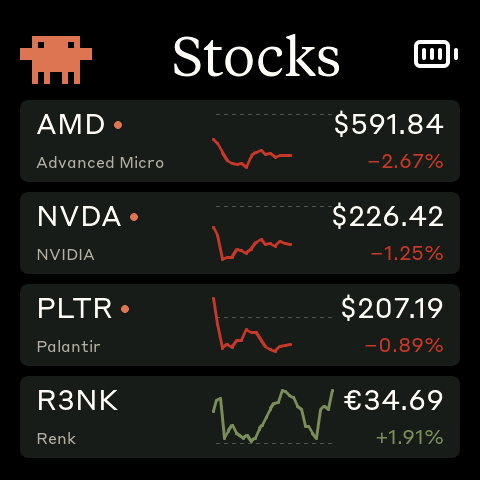
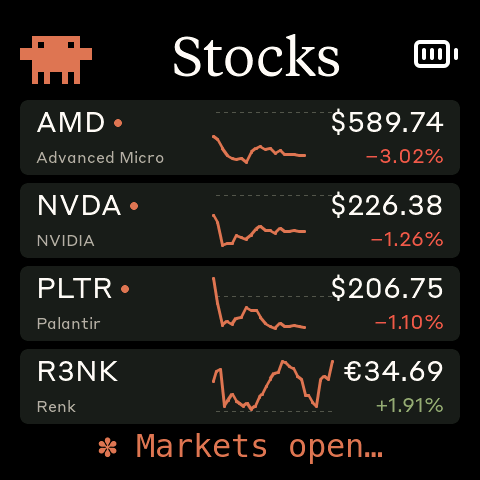
Weather/Stocks: terra-cotta ink and Usage's status line
Bring the two optional screens into the Usage screen's visual language:

- Terra-cotta (THEME_ACCENT) is the ink: every weather glyph (main and
  forecast), the degree sign after the big temperature, the stock
  sparklines, and the live-market dot. Text stays ivory / warm gray.
- Both screens get Usage's animated "<spinner> <text>..." status line, with
  one live fact each: the next sunrise/sunset (new "sun" field from
  extras.py) or whether any of the configured markets is open. The spinner
  step is shared via spinner_step(); content shifts up by footer_reserve.
- Gain/loss % keeps green/red but uses new THEME_GAIN / THEME_LOSS text
  tokens: the bar colours are 4.47:1 and 3.0:1 on the panel, the new ones
  6.3:1 and 4.8:1, and LOSS stays clearly redder than the orange sparkline.

Verified in the sim at 480x480, 368x448 and 240x240; C6 2.16 builds
(RAM 32%, flash 36%); daemon tests pass.

Changed region(s): [[0.0312, 0.2812, 0.9688, 0.9688], [0.6875, 0.2188, 0.9375, 0.2812], [0.0625, 0.2188, 0.25, 0.2812]]

diff --git a/firmware/src/ui.cpp b/firmware/src/ui.cpp
@@ -102,6 +102,7 @@ struct Layout {
     int16_t wx_detail_y;             // feels-like / high / low line
     int16_t wx_fc_y, wx_fc_h;        // forecast tiles
     int16_t wx_fc_icon_px;           // forecast icon (drawn from the 48px art)
+    int16_t wx_fc_pad_y;             // forecast tile top/bottom padding
     const lv_font_t* wx_temp_font;
     const lv_font_t* wx_cond_font;
     const lv_font_t* wx_detail_font;
@@ -117,6 +118,10 @@ struct Layout {
     const lv_font_t* st_name_font;
     const lv_font_t* st_price_font;
     const lv_font_t* st_chg_font;
+
+    // Weather / stocks share Usage's animated status line at the bottom;
+    // their content stops this far above the bottom edge to clear it.
+    int16_t footer_reserve;
 };
 static Layout L = {};
 
@@ -170,19 +175,20 @@ static void compute_layout(const BoardCaps& c) {
         L.bt_credit_1_font = &font_styrene_24;
         L.bt_credit_2_font = &font_styrene_20;
         L.wx_icon_px = 120;
-        L.wx_main_y = 96;
-        L.wx_cond_y = 226;
-        L.wx_detail_y = 264;
-        L.wx_fc_y = 312;
-        L.wx_fc_h = 130;
+        L.wx_main_y = 90;
+        L.wx_cond_y = 216;
+        L.wx_detail_y = 252;
+        L.wx_fc_y = 296;
+        L.wx_fc_h = 120;
         L.wx_fc_icon_px = 48;
+        L.wx_fc_pad_y = 8;
         L.wx_temp_font   = &font_styrene_temp_96;
         L.wx_cond_font   = &font_styrene_28;
         L.wx_detail_font = with_symbols(&font_styrene_24, &font_sym_24);
         L.wx_fc_font     = with_symbols(&font_styrene_24, &font_sym_24);
         L.st_row_h = 82;
-        L.st_row_gap = 10;
-        L.st_pad_y = 10;
+        L.st_row_gap = 8;
+        L.st_pad_y = 8;
         L.st_left_w = 140;
         L.st_spark_w = 120;
         L.st_line_w = 3;
@@ -211,6 +217,7 @@ static void compute_layout(const BoardCaps& c) {
         L.wx_fc_y = 262;
         L.wx_fc_h = 118;
         L.wx_fc_icon_px = 40;
+        L.wx_fc_pad_y = 8;
         L.wx_temp_font   = &font_styrene_temp_72;
         L.wx_cond_font   = &font_styrene_24;
         L.wx_detail_font = with_symbols(&font_styrene_20, &font_sym_20);
@@ -267,13 +274,14 @@ static void compute_layout(const BoardCaps& c) {
         L.bt_device_font   = &font_styrene_14;
         L.bt_credit_1_font = &font_styrene_12;
         L.bt_credit_2_font = &font_styrene_12;
-        L.wx_icon_px = 56;
-        L.wx_main_y = 40;
-        L.wx_cond_y = 100;
-        L.wx_detail_y = 118;
-        L.wx_fc_y = 140;
-        L.wx_fc_h = 92;
-        L.wx_fc_icon_px = 28;
+        L.wx_icon_px = 48;
+        L.wx_main_y = 38;
+        L.wx_cond_y = 88;
+        L.wx_detail_y = 105;
+        L.wx_fc_y = 124;
+        L.wx_fc_h = 80;
+        L.wx_fc_icon_px = 26;
+        L.wx_fc_pad_y = 5;
         L.wx_temp_font   = with_symbols(&font_styrene_48, &font_sym_48);
         L.wx_cond_font   = &font_styrene_14;
         L.wx_detail_font = with_symbols(&font_styrene_12, &font_sym_12);
@@ -291,6 +299,7 @@ static void compute_layout(const BoardCaps& c) {
     }
 
     L.content_w = L.scr_w - 2 * L.margin;
+    L.footer_reserve = -L.anim_y + lv_font_get_line_height(L.anim_font) + 6;
 }
 
 // Anthropic brand palette — design tokens live in theme.h
@@ -788,11 +797,23 @@ static const char* wx_text_for(int code) {
     }
 }
 
-// The art is white; the sun takes the brand accent, everything else stays ivory.
+// The art is white; every weather glyph is drawn in the brand terra-cotta,
+// the same ink as the Clawd mascot and the status line. Text stays ivory.
 static void set_wx_icon(lv_obj_t* img, const lv_image_dsc_t* dscs, int icon) {
     lv_image_set_src(img, &dscs[icon]);
-    lv_obj_set_style_image_recolor(img, icon == WX_SUN ? COL_ACCENT : COL_TEXT, 0);
+    lv_obj_set_style_image_recolor(img, COL_ACCENT, 0);
     lv_obj_set_style_image_recolor_opa(img, LV_OPA_COVER, 0);
+}
+
+// Status line at the bottom of the weather / stocks screens — same font,
+// colour and spinner as the Usage screen's, driven from ui_tick_anim().
+static lv_obj_t* make_footer(lv_obj_t* parent) {
+    lv_obj_t* f = lv_label_create(parent);
+    lv_label_set_text(f, "");
+    lv_obj_set_style_text_font(f, L.anim_font, 0);
+    lv_obj_set_style_text_color(f, COL_ACCENT, 0);
+    lv_obj_align(f, LV_ALIGN_BOTTOM_MID, 0, L.anim_y);
+    return f;
 }
 
 // Show an icon at `px`, scaling the art when the layout asks for another size.
@@ -816,6 +837,8 @@ static lv_obj_t* wx_tiles[WX_FORECAST_DAYS];
 static lv_obj_t* wx_tile_day[WX_FORECAST_DAYS];
 static lv_obj_t* wx_tile_icon[WX_FORECAST_DAYS];
 static lv_obj_t* wx_tile_temp[WX_FORECAST_DAYS];
+static lv_obj_t* wx_footer;
+static char      wx_footer_text[16];
 static bool      weather_received = false;
 static uint32_t  weather_ms = 0;
 
@@ -838,6 +861,7 @@ static void init_weather_screen(lv_obj_t* scr) {
 
     wx_icon = make_wx_icon(row, wx_big_dscs, ICON_WX_SUN_120_W, L.wx_icon_px);
     wx_temp = lv_label_create(row);
+    lv_label_set_recolor(wx_temp, true);   // the degree sign takes the accent
     lv_label_set_text(wx_temp, "-");
     lv_obj_set_style_text_font(wx_temp, L.wx_temp_font, 0);
     lv_obj_set_style_text_color(wx_temp, COL_TEXT, 0);
@@ -860,6 +884,8 @@ static void init_weather_screen(lv_obj_t* scr) {
     for (int i = 0; i < WX_FORECAST_DAYS; i++) {
         lv_obj_t* tile = make_panel(weather_container, L.margin + i * (tile_w + gap),
                                     L.wx_fc_y, tile_w, L.wx_fc_h);
+        lv_obj_set_style_pad_top(tile, L.wx_fc_pad_y, 0);
+        lv_obj_set_style_pad_bottom(tile, L.wx_fc_pad_y, 0);
         wx_tiles[i] = tile;
 
         wx_tile_day[i] = lv_label_create(tile);
@@ -879,14 +905,17 @@ static void init_weather_screen(lv_obj_t* scr) {
 
         lv_obj_add_flag(tile, LV_OBJ_FLAG_HIDDEN);
     }
+
+    wx_footer = make_footer(weather_container);
 }
 
 void ui_update_weather(const WeatherData* d) {
     char buf[64];
     set_screen_title(wx_title, d->location[0] ? d->location : "Weather");
     set_wx_icon(wx_icon, wx_big_dscs, wx_icon_for(d->code, d->is_day));
-    snprintf(buf, sizeof(buf), "%ld\xC2\xB0", lroundf(d->temp));
+    snprintf(buf, sizeof(buf), "%ld#d97757 \xC2\xB0#", lroundf(d->temp));
     lv_label_set_text(wx_temp, buf);
+    strlcpy(wx_footer_text, d->sun, sizeof(wx_footer_text));
     lv_label_set_text(wx_cond, wx_text_for(d->code));
     snprintf(buf, sizeof(buf), "Feels %d\xC2\xB0  \xC2\xB7  H %d\xC2\xB0  L %d\xC2\xB0",
              d->feels, d->hi, d->lo);
@@ -929,6 +958,7 @@ static StockRow  stock_rows[STOCK_MAX];
 static lv_obj_t* stocks_container;
 static int       stock_count = 0;      // rows the daemon says it's sending
 static uint32_t  stock_ms = 0;
+static lv_obj_t* st_footer;
 
 static void init_stocks_screen(lv_obj_t* scr) {
     stocks_container = make_screen_container(scr);
@@ -983,6 +1013,8 @@ static void init_stocks_screen(lv_obj_t* scr) {
         r->have = false;
         lv_obj_add_flag(r->panel, LV_OBJ_FLAG_HIDDEN);
     }
+
+    st_footer = make_footer(stocks_container);
 }
 
 static void format_price(char* buf, size_t len, const char* cur, float p) {
@@ -1002,7 +1034,7 @@ static void format_price(char* buf, size_t len, const char* cur, float p) {
 static void layout_stock_rows(void) {
     const int n = stock_count;
     if (n <= 0) return;
-    const int avail = L.scr_h - L.content_y - L.margin;
+    const int avail = L.scr_h - L.content_y - L.footer_reserve;
     int h = (avail - (n - 1) * L.st_row_gap) / n;
     if (h > L.st_row_h) h = L.st_row_h;
     const int inner_h = h - 2 * L.st_pad_y;
@@ -1034,7 +1066,7 @@ static void layout_stock_rows(void) {
         const bool up = pct >= 0.0f;
         snprintf(buf, sizeof(buf), "%s%.2f%%", up ? "+" : "\xE2\x88\x92", fabsf(pct));
         lv_label_set_text(r->chg, buf);
-        lv_obj_set_style_text_color(r->chg, up ? COL_GREEN : COL_RED, 0);
+        lv_obj_set_style_text_color(r->chg, up ? THEME_GAIN : THEME_LOSS, 0);
 
         // Sparkline: 0..99 → top..bottom of the plot box. Mid-session it only
         // spans the elapsed share of the trading day, so the x axis is time.
@@ -1045,7 +1077,7 @@ static void layout_stock_rows(void) {
             r->spark_pts[k].y = (99 - q->hist[k]) * (spark_h - 1) / 99;
         }
         lv_line_set_points(r->spark, r->spark_pts, pts);
-        lv_obj_set_style_line_color(r->spark, up ? COL_GREEN : COL_RED, 0);
+        lv_obj_set_style_line_color(r->spark, COL_ACCENT, 0);   // the change % carries up/down
         lv_obj_set_pos(r->spark, spark_x, spark_y);
 
         const int by = (99 - q->baseline) * (spark_h - 1) / 99;
@@ -1263,7 +1295,47 @@ static void update_view_state(void) {
                       LV_OBJ_FLAG_HIDDEN);
 }
 
+// Advance the shared ✻ spinner on its own cadence; false when it isn't due yet.
+static bool spinner_step(uint32_t now) {
+    if (now - anim_last_ms < spinner_ms[anim_spinner_idx]) return false;
+    anim_last_ms = now;
+    anim_phase = (anim_phase + 1) % SPINNER_PHASES;
+    anim_spinner_idx = (anim_phase < SPINNER_COUNT) ? anim_phase
+                                                    : (SPINNER_PHASES - anim_phase);
+    return true;
+}
+
+// Weather / stocks status line: the same "<glyph> <Text>…" as Usage, carrying
+// that screen's one live fact (next sun event / market state).
+static void tick_extra_footer(uint32_t now) {
+    lv_obj_t* footer;
+    const char* text;
+    if (current_screen == SCREEN_WEATHER) {
+        footer = wx_footer;
+        text = wx_footer_text;
+    } else {
+        footer = st_footer;
+        bool any_open = false;
+        for (int i = 0; i < stock_count; i++) {
+            if (stock_rows[i].have && stock_rows[i].q.open) any_open = true;
+        }
+        text = any_open ? "Markets open" : "Markets closed";
+    }
+    if (!text[0]) {
+        if (lv_label_get_text(footer)[0]) lv_label_set_text(footer, "");
+        return;
+    }
+    if (!spinner_step(now)) return;
+    static char buf[48];
+    snprintf(buf, sizeof(buf), "%s %s\xE2\x80\xA6", spinner_frames[anim_spinner_idx], text);
+    lv_label_set_text(footer, buf);
+}
+
 void ui_tick_anim(void) {
+    if (current_screen == SCREEN_WEATHER || current_screen == SCREEN_STOCKS) {
+        tick_extra_footer(lv_tick_get());
+        return;
+    }
     if (current_screen != SCREEN_USAGE) return;
     update_view_state();
     if (view_state == 1) splash_mini_tick();   // animate the sleeping creature on the idle screen
@@ -1298,11 +1370,7 @@ void ui_tick_anim(void) {
         anim_msg_start = now;
     }
 
-    if (now - anim_last_ms < spinner_ms[anim_spinner_idx]) return;
-    anim_last_ms = now;
-    anim_phase = (anim_phase + 1) % SPINNER_PHASES;
-    anim_spinner_idx = (anim_phase < SPINNER_COUNT) ? anim_phase
-                                                    : (SPINNER_PHASES - anim_phase);
+    if (!spinner_step(now)) return;
 
     // Status text by priority. Whimsical messages only when connected & settled.
     const char* text;

diff --git a/daemon/tests/test_extras.py b/daemon/tests/test_extras.py
@@ -9,12 +9,14 @@ FIRMWARE_BUF = 512  # BLE_BUF_SIZE in firmware/src/ble.cpp
 
 def forecast_fixture():
     return {
-        "current": {"temperature_2m": 11.34, "apparent_temperature": 9.8,
-                    "weather_code": 2, "is_day": 1},
+        "current": {"time": "2026-10-12T19:00", "temperature_2m": 11.34,
+                    "apparent_temperature": 9.8, "weather_code": 2, "is_day": 1},
         "daily": {"time": ["2026-10-12", "2026-10-13", "2026-10-14", "2026-10-15"],
                   "weather_code": [3, 80, 61, 0],
                   "temperature_2m_max": [13.4, 15.3, 17.8, 17.6],
-                  "temperature_2m_min": [6.7, 9.1, 12.1, -0.6]},
+                  "temperature_2m_min": [6.7, 9.1, 12.1, -0.6],
+                  "sunrise": ["2026-10-12T07:40", "2026-10-13T07:41", "2026-10-14T07:43", "2026-10-15T07:44"],
+                  "sunset": ["2026-10-12T18:45", "2026-10-13T18:43", "2026-10-14T18:41", "2026-10-15T18:39"]},
     }
 
 
@@ -32,7 +34,15 @@ def test_weather_payload():
     assert p["k"] == "wx" and p["loc"] == "Ennetmoos"          # folded to ASCII
     assert (p["t"], p["fl"], p["c"], p["d"], p["hi"], p["lo"]) == (11.3, 10, 2, 1, 13, 7)
     assert p["f"] == [["Tue", 80, 15, 9], ["Wed", 61, 18, 12], ["Thu", 0, 18, -1]]
+    assert p["sun"] == "Sunrise 07:41"                          # after today's sunset
     assert len(x.compact(p)) < FIRMWARE_BUF
+
+
+def test_next_sun_event():
+    rises, sets = ["2026-10-12T07:40", "2026-10-13T07:41"], ["2026-10-12T18:45", "2026-10-13T18:43"]
+    assert x.next_sun_event("2026-10-12T06:00", rises, sets) == "Sunrise 07:40"
+    assert x.next_sun_event("2026-10-12T12:00", rises, sets) == "Sunset 18:45"
+    assert x.next_sun_event("2026-10-14T12:00", rises, sets) == ""
 
 
 def test_stock_spec():

diff --git a/daemon/extras.py b/daemon/extras.py
@@ -66,6 +66,16 @@ def geocode(name):
     return hits[0]["latitude"], hits[0]["longitude"], hits[0]["name"]
 
 
+def next_sun_event(now_local, sunrises, sunsets):
+    """'Sunset 18:45' / 'Sunrise 07:41' — whichever comes next. Inputs are the
+    local ISO timestamps Open-Meteo returns with timezone=auto."""
+    events = sorted([(t, "Sunrise") for t in sunrises] + [(t, "Sunset") for t in sunsets])
+    for t, name in events:
+        if t > now_local:
+            return f"{name} {t[11:16]}"
+    return ""
+
+
 def weather_payload(forecast, label):
     """Build the {"k":"wx"} payload from an Open-Meteo forecast response."""
     cur = forecast["current"]
@@ -85,6 +95,7 @@ def weather_payload(forecast, label):
         "hi": round(daily["temperature_2m_max"][0]),
         "lo": round(daily["temperature_2m_min"][0]),
         "f": days,
+        "sun": next_sun_event(cur["time"], daily.get("sunrise", []), daily.get("sunset", [])),
     }
 
 
@@ -97,7 +108,7 @@ def fetch_weather(location, coords=None):
     url = ("https://api.open-meteo.com/v1/forecast?timezone=auto"
            f"&forecast_days={FORECAST_DAYS + 1}&latitude={lat}&longitude={lon}"
            "&current=temperature_2m,apparent_temperature,weather_code,is_day"
-           "&daily=weather_code,temperature_2m_max,temperature_2m_min")
+           "&daily=weather_code,temperature_2m_max,temperature_2m_min,sunrise,sunset")
     return weather_payload(get_json(url), label)
 
 

diff --git a/firmware/src/theme.h b/firmware/src/theme.h
@@ -12,3 +12,8 @@
 #define THEME_AMBER    lv_color_hex(0xd97757)
 #define THEME_RED      lv_color_hex(0xc0392b)
 #define THEME_BAR_BG   lv_color_hex(0x2a2a28)   // unfilled bar track
+// Gain / loss as small text on THEME_PANEL: lighter steps of GREEN / RED so
+// they clear 4.5:1 (the bar fills above sit at 4.5 and 3.0). LOSS stays
+// clearly redder than ACCENT, which the stock sparklines are drawn in.
+#define THEME_GAIN     lv_color_hex(0x93a872)   // 6.3:1 on panel
+#define THEME_LOSS     lv_color_hex(0xeb5a4c)   // 4.8:1 on panel

diff --git a/firmware/src/main.cpp b/firmware/src/main.cpp
@@ -129,6 +129,7 @@ static void parse_weather(JsonDocument& doc, WeatherData* out) {
     out->is_day = doc["d"].as<bool>();
     out->hi     = doc["hi"] | 0;
     out->lo     = doc["lo"] | 0;
+    strlcpy(out->sun, doc["sun"] | "", sizeof(out->sun));
     JsonArray f = doc["f"].as<JsonArray>();
     out->n_days = 0;
     for (JsonArray day : f) {

diff --git a/firmware/src/data.h b/firmware/src/data.h
@@ -42,6 +42,7 @@ struct WeatherData {
     int   hi, lo;            // today's range, °C
     WeatherDay days[WX_FORECAST_DAYS];
     int   n_days;
+    char  sun[16];           // next sun event, "Sunset 18:45"; empty = unknown
 };
 
 #define STOCK_MAX       5

diff --git a/README.md b/README.md
@@ -230,8 +230,8 @@ weather_location = Ennetmoos
 stocks = AMD, NVDA=NVIDIA, PLTR=Palantir, R3NK.DE=Renk
 ```
 
-- **Weather** comes from [Open-Meteo](https://open-meteo.com) (no account, no key), refreshed every 15 minutes: the current temperature and condition, feels-like and today's high/low, and a three-day forecast. `weather_location` is looked up with Open-Meteo's geocoder; if it picks the wrong place, pin it with `weather_coords = 46.956, 8.339` (the location name is then shown as-is).
-- **Stocks** come from Yahoo Finance's chart endpoint (unofficial, no key), refreshed every 5 minutes, up to 5 symbols. Use Yahoo's symbols — exchange suffixes like `.DE` (Xetra) or `.SW` (SIX) are accepted and dropped from the display. `SYMBOL=Label` overrides the company name shown under the ticker. Each row shows the price, the change since the previous close, and today's intraday line against a dashed previous-close baseline; mid-session the line only spans the part of the trading day that has happened. An orange dot next to the ticker means the market is open — without it the price is the last close.
+- **Weather** comes from [Open-Meteo](https://open-meteo.com) (no account, no key), refreshed every 15 minutes: the current temperature and condition, feels-like and today's high/low, a three-day forecast, and the next sunrise or sunset on the status line. `weather_location` is looked up with Open-Meteo's geocoder; if it picks the wrong place, pin it with `weather_coords = 46.956, 8.339` (the location name is then shown as-is).
+- **Stocks** come from Yahoo Finance's chart endpoint (unofficial, no key), refreshed every 5 minutes, up to 5 symbols. Use Yahoo's symbols — exchange suffixes like `.DE` (Xetra) or `.SW` (SIX) are accepted and dropped from the display. `SYMBOL=Label` overrides the company name shown under the ticker. Each row shows the price, the change since the previous close, and today's intraday line against a dashed previous-close baseline; mid-session the line only spans the part of the trading day that has happened. An orange dot next to the ticker means that market is open — without it the price is the last close — and the status line says whether any of your markets are open.
 
 Each screen drops out of the tap rotation if the daemon hasn't refreshed it for 3 hours. The macOS and Windows daemons don't send these yet.
 
@@ -284,12 +284,12 @@ The optional extra screens use separate writes tagged with `k`, which a usage pa
 
 ```json
 { "k": "wx", "loc": "Ennetmoos", "t": 12.8, "fl": 11, "c": 0, "d": 0, "hi": 15, "lo": 7,
-  "f": [["Tue", 80, 16, 8], ["Wed", 80, 19, 13], ["Thu", 3, 18, 12]] }
+  "f": [["Tue", 80, 16, 8], ["Wed", 80, 19, 13], ["Thu", 3, 18, 12]], "sun": "Sunrise 07:41" }
 { "k": "q", "i": 0, "n": 4, "sy": "AMD", "nm": "Advanced Micro", "cu": "USD", "p": 591.75,
   "pc": 608.1, "o": 1, "h": [51, 44, 27, 12], "b": 99, "fr": 62 }
 ```
 
-Weather: `t` = temperature °C, `fl` = feels-like, `c` = [WMO weather code](https://open-meteo.com/en/docs), `d` = daytime, `hi`/`lo` = today's range, `f` = forecast days `[day, code, high, low]`. Quote: `i`/`n` = row index / row count, `sy` = symbol, `nm` = name, `cu` = currency, `p` = price, `pc` = previous close, `o` = market open, `h` = intraday closes scaled 0–99, `b` = previous close on that scale, `fr` = percent of the trading day `h` covers. Strings are ASCII.
+Weather: `t` = temperature °C, `fl` = feels-like, `c` = [WMO weather code](https://open-meteo.com/en/docs), `d` = daytime, `hi`/`lo` = today's range, `f` = forecast days `[day, code, high, low]`, `sun` = next sun event for the status line (`"Sunset 18:45"`). Quote: `i`/`n` = row index / row count, `sy` = symbol, `nm` = name, `cu` = currency, `p` = price, `pc` = previous close, `o` = market open, `h` = intraday closes scaled 0–99, `b` = previous close on that scale, `fr` = percent of the trading day `h` covers. Strings are ASCII.
 
 ## Development
 

diff --git a/CLAUDE.md b/CLAUDE.md
@@ -253,6 +253,7 @@ Tap order is splash → usage → weather → stocks → splash; `ui_next_screen
 
 - **Protocol:** separate RX writes tagged `"k":"wx"` / `"k":"q"` (one per stock row); untagged = usage. Routed in `main.cpp` (`parse_weather` / `parse_quote`). They must never touch the usage freshness (`DATA_FRESH_MS`) — the daemon also keeps them out of `LAST_WRITE_TS` so the heartbeat cadence is unchanged.
 - **Daemon:** `daemon/extras.py` (stdlib only; Open-Meteo + Yahoo chart endpoint) is called from `send_extras()` in the Linux bash daemon, every 15 min (weather) / 5 min (stocks), gated on `weather_location` / `stocks` in the config. Writes are spaced 1 s apart because the firmware has a single RX slot. macOS/Windows daemons don't send these yet. Tests: `daemon/tests/test_extras.py`.
+- **Look:** terra-cotta (`THEME_ACCENT`) is the ink — weather glyphs, the ° after the big temperature, sparklines, the live dot — and both screens carry Usage's animated status line (`tick_extra_footer()`, sharing `spinner_step()`): next sunrise/sunset, or whether any market is open. Gain/loss text uses `THEME_GAIN`/`THEME_LOSS`, lighter steps of GREEN/RED that clear 4.5:1 on the panel (the bar colours don't). Content stops `L.footer_reserve` above the bottom edge.
 - **Fonts:** the text fonts are ASCII-only. `with_symbols()` in `ui.cpp` makes copies of them with a same-size `font_sym_*` (£ ¥ ° · € −) as the LVGL fallback; the big temperature uses `font_styrene_temp_96/72` (digits, `-`, `°`). Recipes in `docs/fonts.md`.
 - **Memory:** the two screens roughly double LVGL's builtin pool use (sim: ~39 KB of 58 KB used, ~44 KB peak while drawing the weather screen). Keep an eye on `LV_MEM_SIZE` (64 KB default) before adding more widgets — PSRAM-free C6 boards can't just grow it for free.
 
